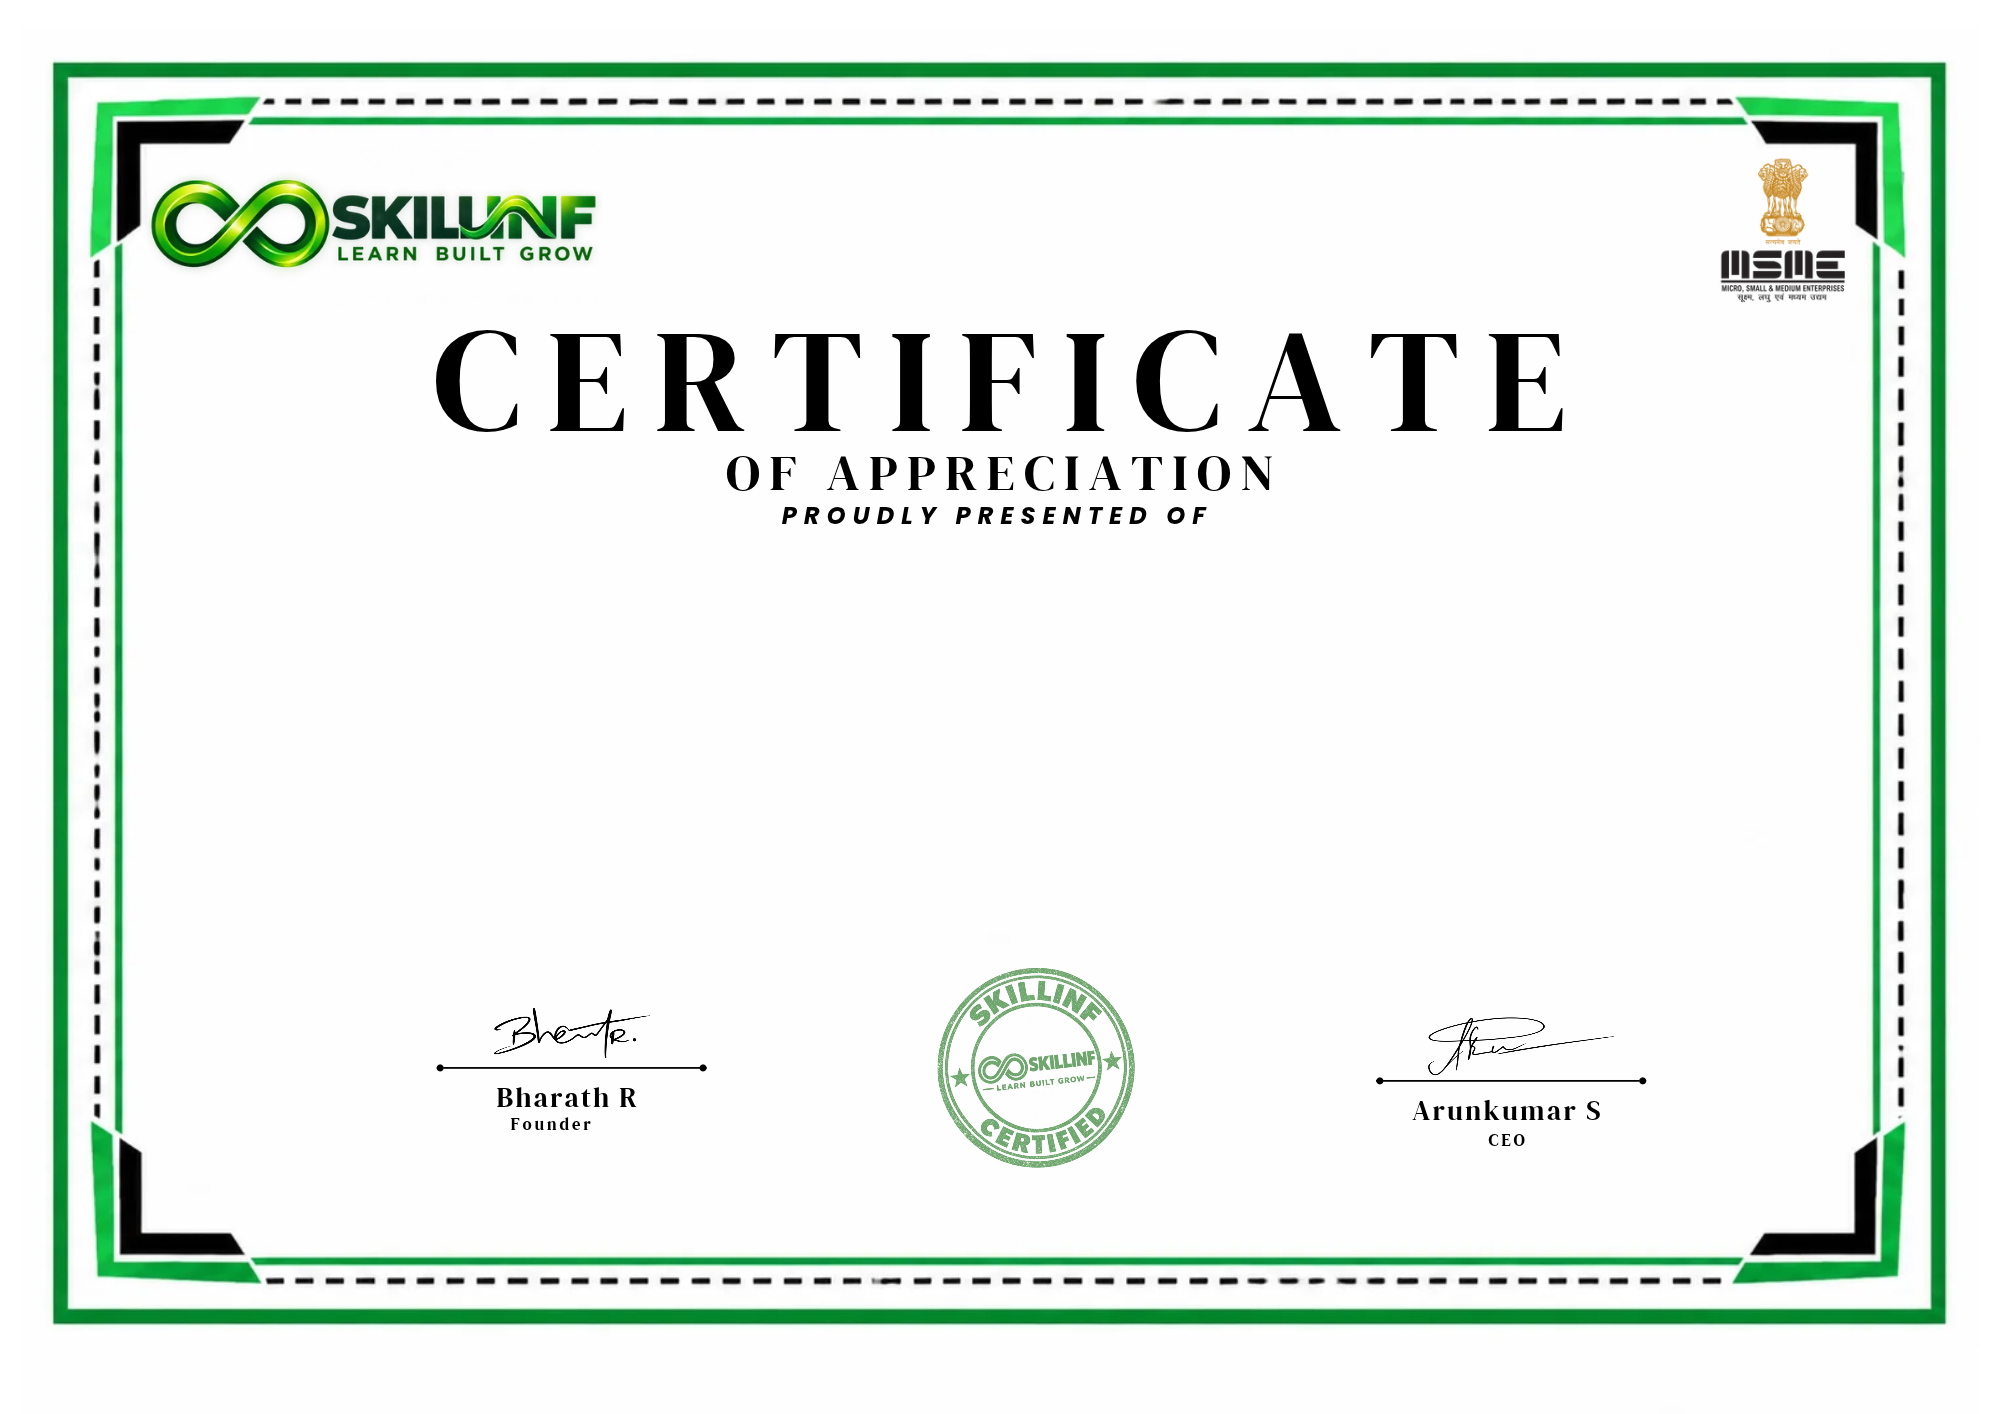
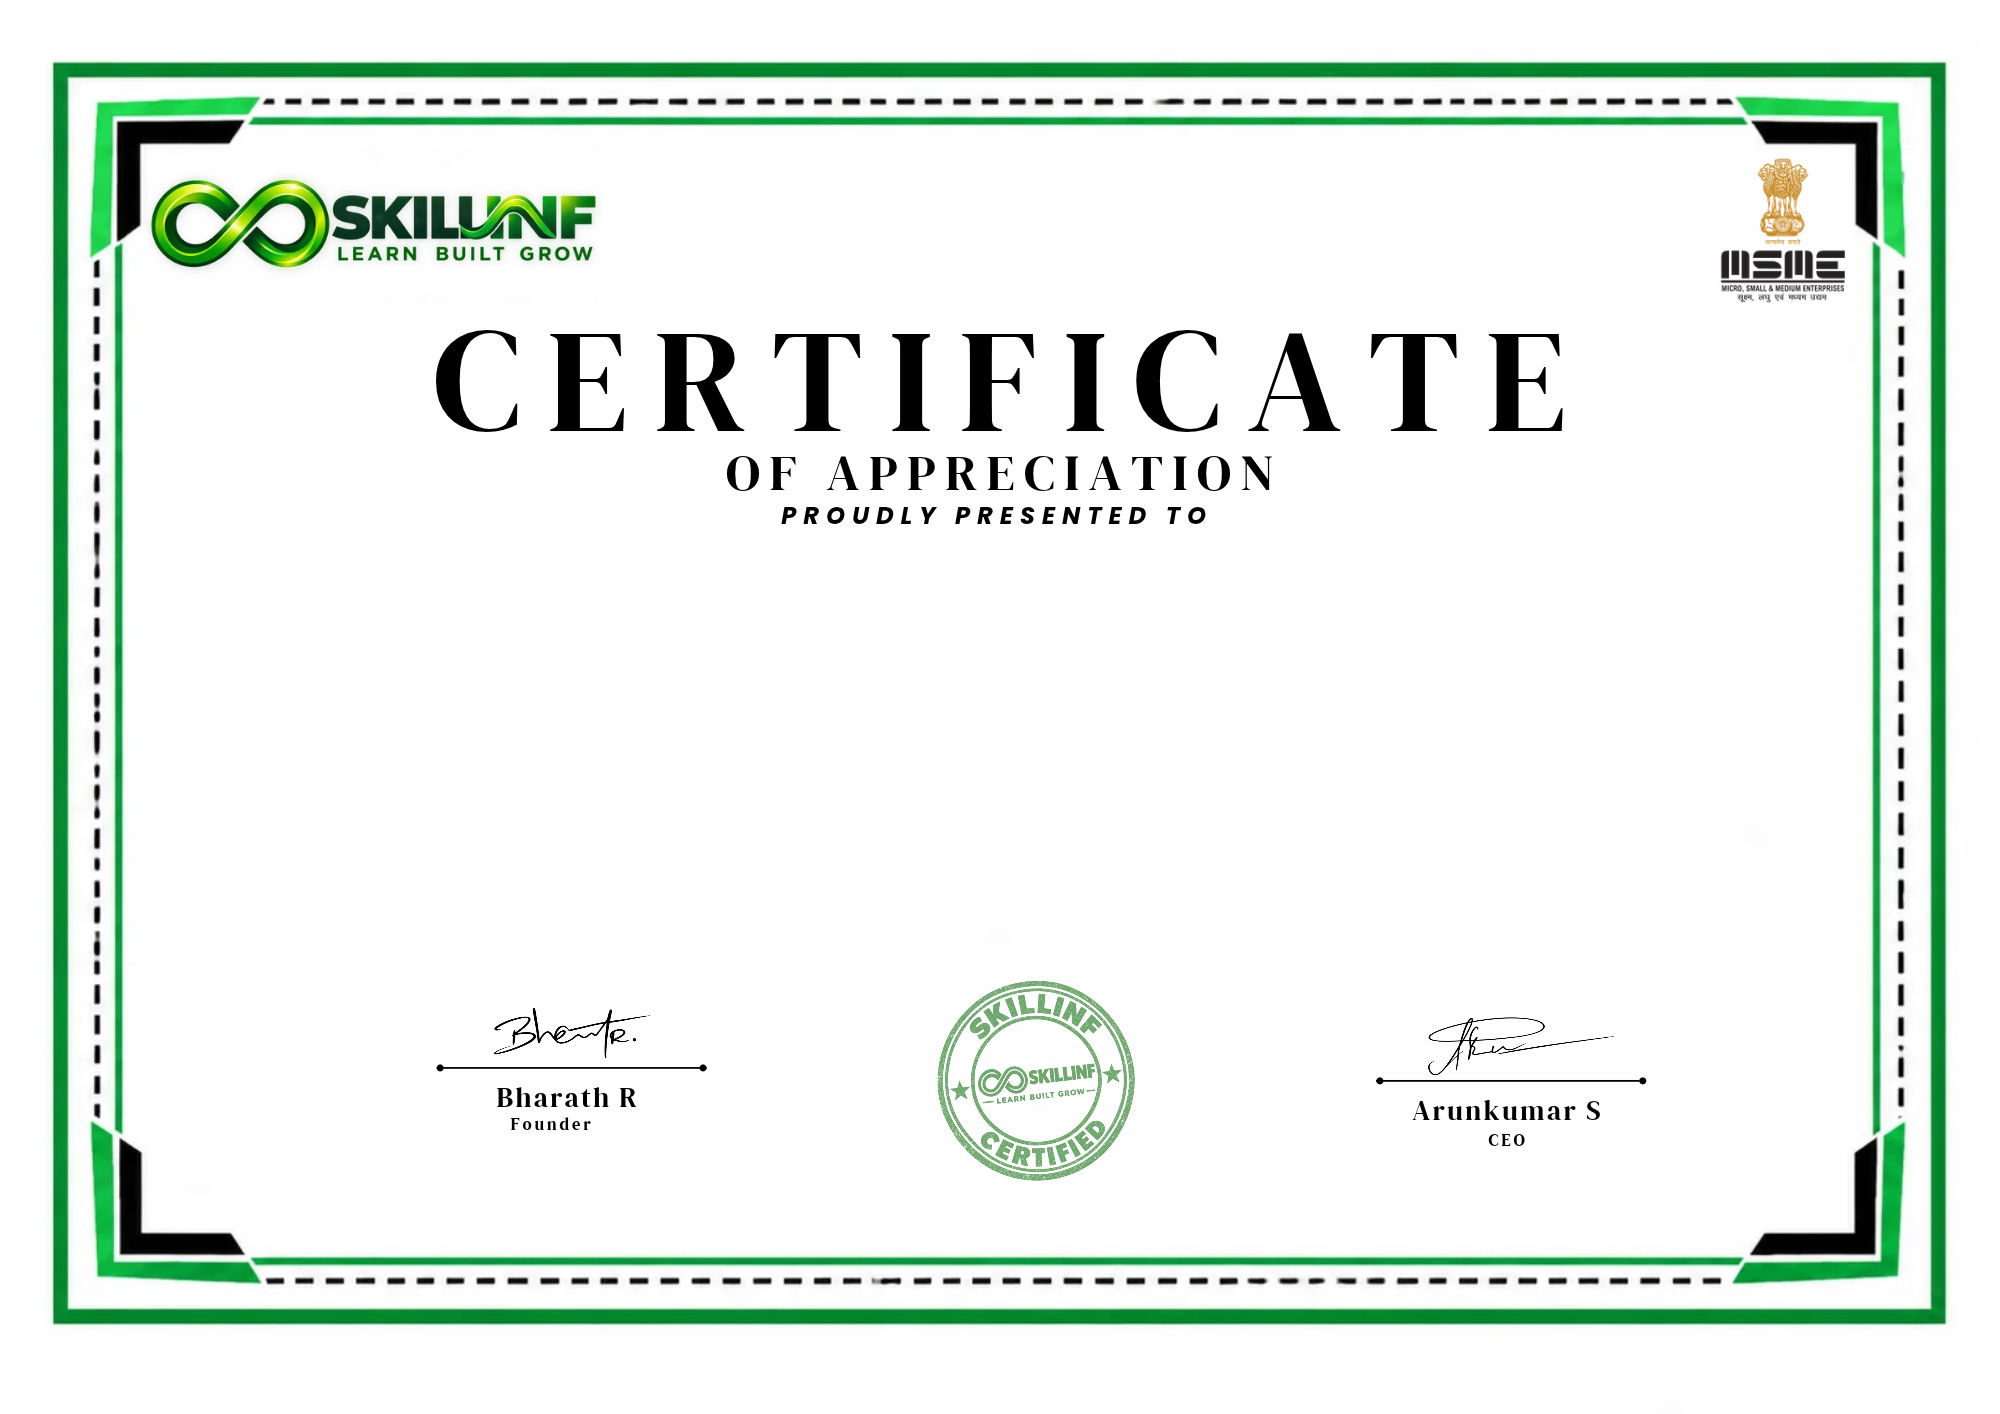
chore: add Google Analytics tracking to frontend

Changed region(s): [[0.465, 0.6846, 0.589, 0.8402], [0.589, 0.3423, 0.62, 0.3734]]

diff --git a/frontend/src/app/layout.tsx b/frontend/src/app/layout.tsx
@@ -1,5 +1,6 @@
 import type { Metadata } from "next";
 import { Inter } from "next/font/google";
+import Script from "next/script";
 import "./globals.css";
 import FloatingChat from "@/components/shared/FloatingChat";
 
@@ -34,6 +35,21 @@ export default function RootLayout({
 }>) {
   return (
     <html lang="en" className={inter.variable}>
+      <head>
+        {/* Google Analytics */}
+        <Script
+          strategy="afterInteractive"
+          src="https://www.googletagmanager.com/gtag/js?id=G-CBQGRL2K5M"
+        />
+        <Script id="google-analytics" strategy="afterInteractive">
+          {`
+            window.dataLayer = window.dataLayer || [];
+            function gtag(){dataLayer.push(arguments);}
+            gtag('js', new Date());
+            gtag('config', 'G-CBQGRL2K5M');
+          `}
+        </Script>
+      </head>
       <body className={inter.className}>
         {children}
         <FloatingChat />
